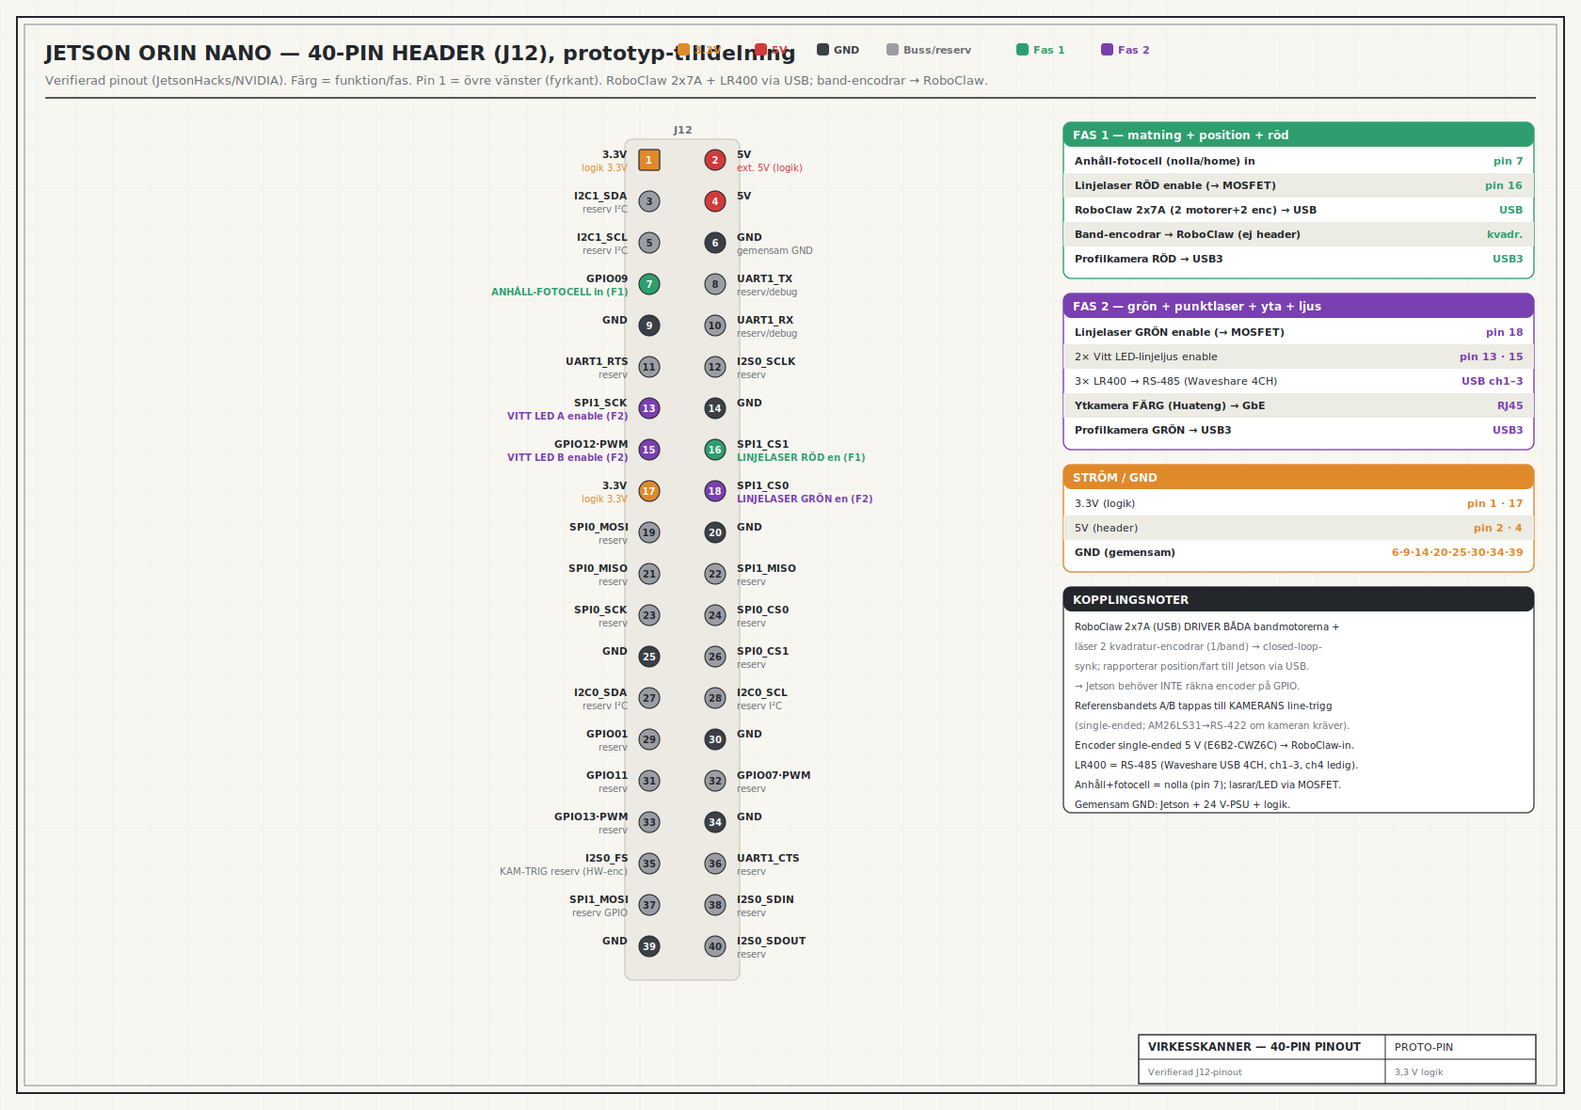
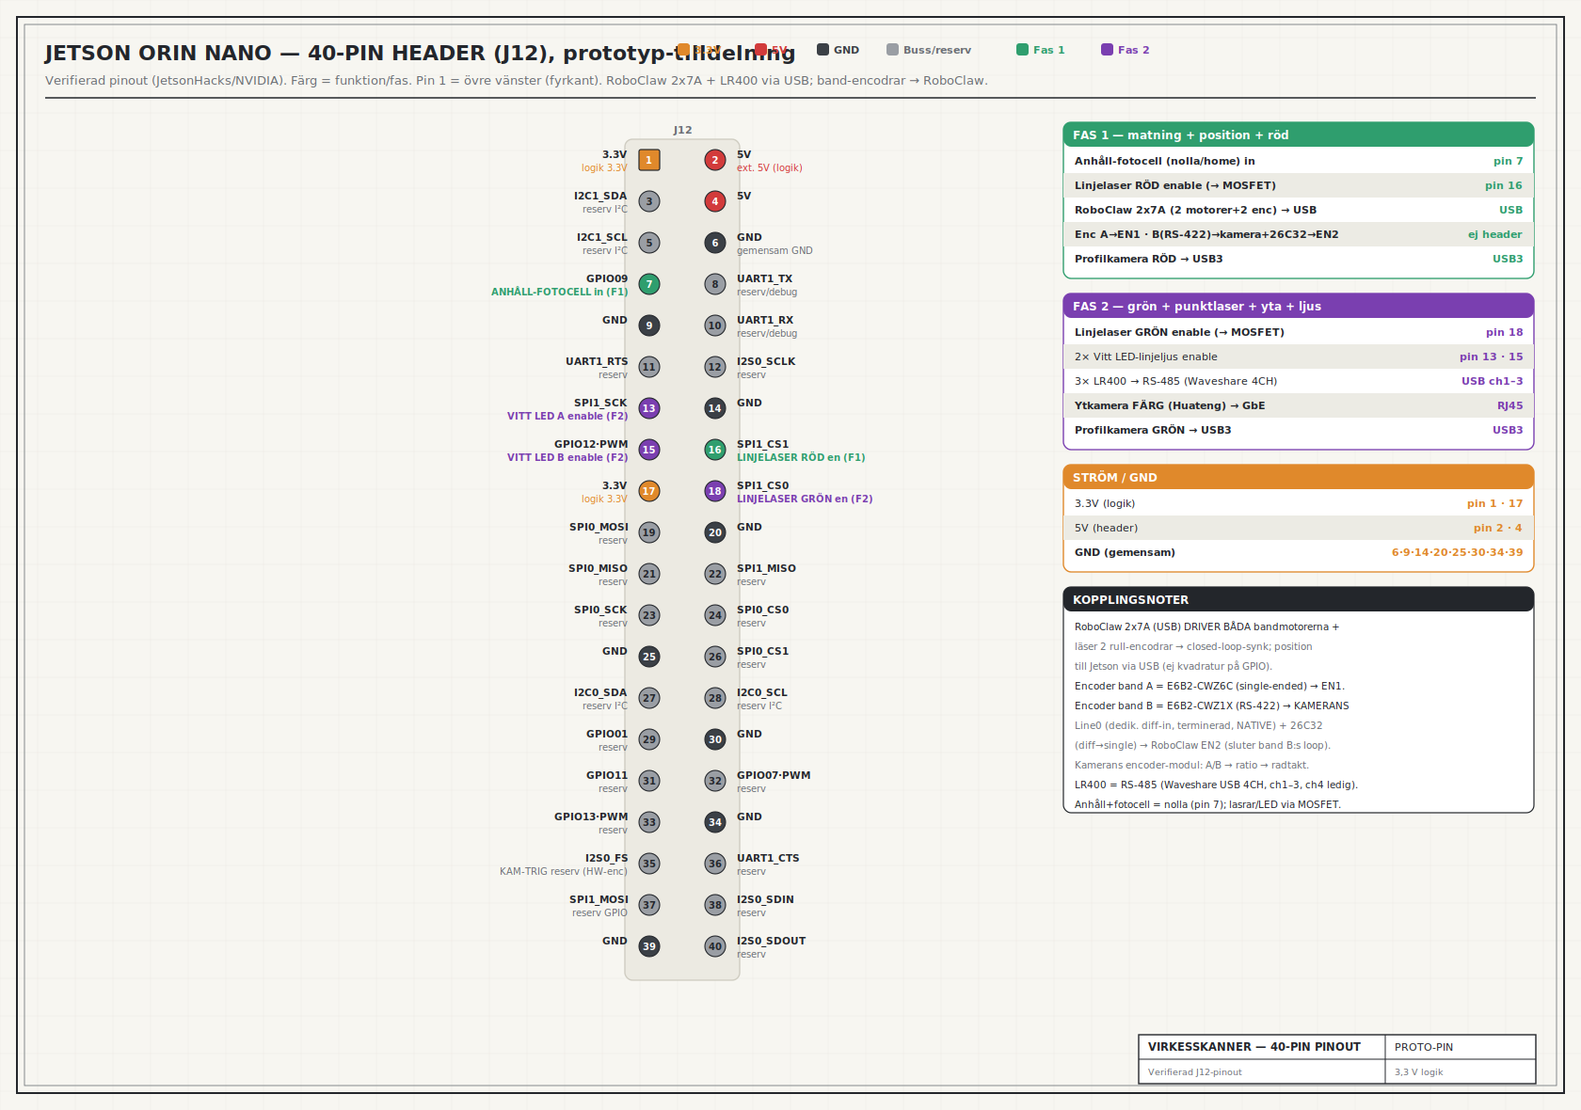
Bekräfta kamerans encoderstöd (RS-422) → split-design med båda looparna stängda
Kollade upp ytkamerans encoderingång (Huateng = rebrand av GigE-line-scan-
firmwaren Hikrobot/Visiondatum/Contrastech): Line0 är dedikerad differentiell
RS-422-encoderingång med inkopplingsbar terminering = bäst; inbyggd Encoder
Module tar A/B → ratio → radtakt. Bekräftar användarens idé.

Slutlig encoder-design (native i båda ändar, ingen omvandlare i kamerans väg):
- Band A: E6B2-CWZ6C (single-ended 5 V) → RoboClaw EN1 (direkt).
- Band B: E6B2-CWZ1X (RS-422) → kamerans Line0 (native diff, terminerad)
  + 26C32 (diff→single) → RoboClaw EN2 → sluter band B:s closed-loop.
- Båda kanalerna closed-loop @ samma börvärde → synk; position → Jetson via USB.

BOM (CWZ6C + CWZ1X + 26C32 i st.f. 2× CWZ6C + AM26LS31), wiring, pinout,
rig-3d och verify_jetson_io uppdaterade. Fas 1 oförändrad (18 130 kr).

Changed region(s): [[0.681, 0.5797, 0.8667, 0.7322], [0.681, 0.1831, 0.8357, 0.2136], [0.9286, 0.1831, 0.9595, 0.2136]]

diff --git a/tools/draw_rig3d.py b/tools/draw_rig3d.py
@@ -99,7 +99,7 @@ txt(fp[0]+10, fp[1]+2, "PC", 8, "middle", "#c98a16", 700); txt(fp[0]+28, fp[1]-2
 # RULL-ENCODRAR mot bandens retursida (en per band) → RoboClaw (synk) + ref → kamera
 ep = P(BENCH_L - 40, FY0 - 18, 14)
 dot(ep, 9, "#bfe6c8", GRN, 1.4); dot(ep, 2.5, GRN)
-txt(ep[0]+14, ep[1]+2, "2× rull-encoder (1/band) → RoboClaw synk + ref → kamera", 8.5, "start", GRN, 700)
+txt(ep[0]+14, ep[1]+2, "encoder A→RoboClaw EN1 · B (RS-422)→kamera Line0 + 26C32→EN2", 8.5, "start", GRN, 700)
 for lx in (LEGX0, LEGX1):
     box(lx - 18, lx + 18, CY - 18, CY + 18, -16, 6, "#bfc3c8", "#a7acb1", "#b0b5ba", "#969ba0", 1)
     box(lx - 14, lx + 14, CY - 14, CY + 14, 0, TOPZ, ALU, "#aeb3b8", "#b8bdc2", "#9aa0a6", 1)
@@ -137,7 +137,7 @@ txt(jp[0] + 75, jp[1] - 6, "JETSON Orin Nano", 10, "middle", JET, 700, SANS); tx
 panel(1210, 116, 410, 372, "SENSORER / FAS", INK)
 leg = [(RED, "Linjelaser+kamera RÖD 650", 1), (GRN, "Linjelaser+kamera GRÖN 520", 1),
        (PURP, "3× punktlaser LR400 (RS-485)", 2), (SURFC, "Ytkamera 4K färg + vitt ljus", 2),
-       (BELT, "2 transportband + RoboClaw 2x7A (USB)", 1), (ALU, "Stativ · anhåll+fotocell · 2 rull-encodrar (synk)", 1)]
+       (BELT, "2 transportband + RoboClaw 2x7A (USB)", 1), (ALU, "Stativ · anhåll+fotocell · enc A→EN1 · B(RS-422)→kamera", 1)]
 for i, (c, k, fas) in enumerate(leg):
     ry = 160 + i * 40; rect(1224, ry, 20, 20, c, INK, 0.8, 4)
     txt(1252, ry + 14, k, 11, "start", INK, 700, SANS)
@@ -160,7 +160,7 @@ for i, (k, v) in enumerate(dims):
 panel(2070, 116, 370, 372, "STYRNING (Jetson)", JET)
 for i, n in enumerate(["Fast anhåll + fotocell = mekanisk NOLLA/home", "(bräda läggs an → encoder-nollan sätts).",
                        "RoboClaw 2x7A driver BÅDA banden + 2 enc:", "closed-loop hastighet → banden i SYNK.",
-                       "Position/fart → Jetson via RoboClaw-USB →", "fram → mät → BACK; ref-enc → kamera line-trigg.",
+                       "Position/fart → Jetson via RoboClaw-USB →", "fram → mät → BACK; band B (RS-422) → kamera Line0.",
                        "Ytkamera GigE → Jetson 1GbE direkt (ingen switch).", "Punktlaser LR400 → RS-485 (digitalt, ingen ADC)."]):
     txt(2082, 158 + i * 28, "• " + n if not n.startswith("(") and not n.startswith("+") and not n.startswith("(rull") else "  " + n,
         9.6, "start", INK if not (n.startswith("(") or n.startswith("+")) else MUTED, 400)
@@ -181,15 +181,15 @@ def conn(p1, p2, lab, c):
     arrow(p1, p2, c, 1.7); mx, my = (p1[0]+p2[0])/2, (p1[1]+p2[1])/2
     rect(mx - len(lab)*3.2 - 4, my - 8, len(lab)*6.4 + 8, 15, "#fff", c, 0.8, 3); txt(mx, my + 3, lab, 8, "middle", c, 700)
 left = [(880, "Profilkamera RÖD", "MV-CS050-10UM", F1, "USB3"), (960, "Linjelaser röd+grön", "iadiy 650/520, CW", F1, "24V+GPIO"),
-        (1040, "RoboClaw 2x7A", "2 bandmotorer, synk", F1, "USB (1 kort)"), (1120, "2× rull-encoder (band)", "kvadratur, 1/band", F1, "→ RoboClaw"),
+        (1040, "RoboClaw 2x7A", "2 bandmotorer, synk", F1, "USB (1 kort)"), (1120, "Encoder A/B (band)", "A:CWZ6C · B:CWZ1X", F1, "→ RoboClaw"),
         (1200, "Anhåll-fotocell", "nolla / home", F1, "GPIO")]
 for (ly, t, s, c, lab) in left:
     node(70, ly, 240, t, s, c)
-    if lab == "→ RoboClaw":              # encodrar → RoboClaw (synk); ref → kamera; position→Jetson via RoboClaw-USB
+    if lab == "→ RoboClaw":              # A single-ended→EN1; B RS-422→kamera Line0 + 26C32→EN2
         L(190, ly, 190, ly - 30, c, 1.7)                 # upp till RoboClaw-noden
-        txt(196, ly - 14, "kvadr.→RoboClaw", 8, "start", c, 700, SANS)
-        L(310, ly + 32, 360, ly + 32, c, 1.7, "4 3")
-        txt(366, ly + 30, "→ kamera (ref) line-trigg", 8, "start", c, 700, SANS)
+        txt(196, ly - 14, "A single-end→EN1", 8, "start", c, 700, SANS)
+        L(310, ly + 28, 360, ly + 28, c, 1.7, "4 3")
+        txt(366, ly + 26, "B RS-422 → kamera Line0 + 26C32→EN2", 8, "start", c, 700, SANS)
     else:
         conn((310, ly + 25), (JX, JY + JH/2 + (ly - JY - JH/2) * 0.2), lab, c)
 SCY = 980
@@ -206,8 +206,8 @@ panel(1540, 832, 900, 540, "JETSON I/O-BUDGET (räcker med marginal)", INK)
 io = [("USB-portar (×4)", "4 — RÖD+GRÖN kam + RS-485 4CH + RoboClaw 2x7A", "OK · ingen hubb", F1),
       ("Gigabit Ethernet", "1 — ytkamera (GigE 1GbE direkt)", "OK", F2),
       ("RS-485 (USB 4CH)", "3× LR400 (ch1–3) · ch4 LEDIG", "OK · reserv", F2),
-      ("RoboClaw 2x7A (USB)", "2 bandmotorer + 2 kvadratur-enc → synk + position", "via USB", F1),
-      ("Encoder → kamera (ref)", "referensbandets A/B → line-trigg (pixel-exakt)", "tap, ev. RS-422", F1),
+      ("RoboClaw 2x7A (USB)", "A:CWZ6C→EN1 · B:CWZ1X→26C32→EN2 → synk + position", "via USB", F1),
+      ("Encoder band B → kamera", "CWZ1X RS-422 → kamerans Line0 (dedik. diff, terminerad)", "native, pixel-exakt", F1),
       ("40-pin GPIO (~28)", "~5 — anhåll-fotocell, 2 laser-en, 2 LED-en", "OK · gott om", F1),
       ("Analog in (ADC)", "0 — behövs EJ (allt digitalt)", "✓ digitalt", JET),
       ("DC-in / 24 V / 5 V", "Jetson 7–25 V + separat 24/5 V", "OK", INK)]
@@ -243,7 +243,7 @@ for i in range(20):
         tx = cx - 21 if left_ else cx + 21; an = "end" if left_ else "start"
         txt(tx, cy - 1, dn, 9, an, INK, 700, MONO)
         if us: txt(tx, cy + 11, us, 8.5, an, col if col not in (BUSc, DIMC, GNDc) else MUTED, 700 if col in (F1, F2) else 400, SANS)
-txt(60, 2002, "Matning: RoboClaw 2x7A (1 USB) driver BÅDA bandmotorerna + läser 2 rull-encodrar (1/band, retur) → closed-loop hastighet → banden i synk; rapporterar position/fart till Jetson (back-beslut). Referensbandets encoder tappas till kamerans line-trigg (pixel-exakt). Anhåll+fotocell = nolla. LR400 → RS-485 (4CH, ch4 ledig). Gemensam GND.", 9.3, "start", MUTED, 400)
+txt(60, 2002, "Matning: RoboClaw 2x7A (1 USB) driver BÅDA bandmotorerna → closed-loop synk; position/fart → Jetson via USB. Encoder band A=E6B2-CWZ6C (single-ended)→EN1; band B=E6B2-CWZ1X (RS-422)→kamerans Line0 (dedik. diff-in, terminerad, native) + 26C32 (diff→single)→EN2 (sluter B:s loop). Anhåll+fotocell=nolla. LR400→RS-485 (ch4 ledig). Gemensam GND.", 9.3, "start", MUTED, 400)
 
 # ---- BOM ----
 panel(1060, 1388, 1380, 640, "4 · KOMPLETT BOM (priser SEK)", INK)

diff --git a/tools/draw_wiring.py b/tools/draw_wiring.py
@@ -50,7 +50,7 @@ for gy in range(0, H, 40): line(0, gy, W, gy, GRID, 0.5)
 add('</g>')
 rect(18, 18, W - 36, H - 36, "none", INK, 2); rect(26, 26, W - 52, H - 52, "none", MUTED, 0.8)
 txt(48, 64, "VIRKESSKANNER — FAS 1-LAYOUT + KOMPLETT KOPPLINGSSCHEMA", 23, "start", INK, 700, SANS)
-txt(48, 90, "Fas 1 = komplett röd-profilerare på 2 transportband (RoboClaw 2x7A synkar banden via 2 rull-encodrar, ref→kameratrigg, anhåll+fotocell=nolla). "
+txt(48, 90, "Fas 1 = röd-profilerare på 2 transportband (RoboClaw 2x7A synkar banden via 2 rull-encodrar; band B = RS-422 → kamerans Line0 native + 26C32→EN2; anhåll+fotocell=nolla). "
             "Fas 2 = grön modul + 3× LR400 (RS-485) + line-scan-färgyta + vitljus. Alla anslutningar + Jetson I/O-budget.", 13, "start", MUTED, 400, SANS)
 line(48, 104, W - 48, 104, INK, 1.5)
 # fas-legend
@@ -76,8 +76,8 @@ txt(ox + 134, oy - 76, "FAST ANHÅLL", 8, "end", MUTED, 700)
 rect(ox + 122, oy - 48, 11, 15, "#16212e", "#c98a16", 1.2)
 txt(ox + 116, oy - 56, "fotocell", 8, "end", "#c98a16", 700)
 txt(ox + 116, oy - 44, "(nolla)", 8, "end", "#c98a16", 700)
-# rull-encodrar mot bandens retursida (en per band, under) → RoboClaw
-circ(ox + 250, oy + 30, 9, "#bfe6c8", GRN, 1.4); txt(ox + 264, oy + 34, "2× rull-encoder (1/band) → RoboClaw + ref→kamera", 8, "start", GRN, 700)
+# rull-encodrar mot bandens retursida (A single-ended→RoboClaw; B RS-422→kamera+26C32→RoboClaw)
+circ(ox + 250, oy + 30, 9, "#bfe6c8", GRN, 1.4); txt(ox + 264, oy + 34, "encoder A (single-end)→EN1 · B (RS-422)→kamera Line0 + 26C32→EN2", 7.5, "start", GRN, 700)
 line(ox + 250, oy + 21, ox + 250, oy, GRN, 1, "2 3", 0.7)
 # RÖD-HUVUD (oblik 30°): laser+kamera
 hx, hy = ox + 120, oy - 230
@@ -120,19 +120,22 @@ left = [
     (wy + 70, "Profilkamera RÖD", "MV-CS050-10UM", F1, "USB3 (egen)"),
     (wy + 150, "Linjelaser RÖD 650", "MZLaser, CW", F1, "24 V + GPIO-en"),
     (wy + 230, "RoboClaw 2x7A", "2 bandmotorer, synk", F1, "USB (1 kort)"),
-    (wy + 310, "2× rull-encoder (band)", "kvadratur, 1/band", F1, "→ RoboClaw"),
-    (wy + 390, "Anhåll-fotocell", "nolla / home", F1, "GPIO"),
+    (wy + 305, "Encoder band A", "E6B2-CWZ6C (single-end)", F1, "→ EN1"),
+    (wy + 370, "Encoder band B (ref)", "E6B2-CWZ1X (RS-422)", F1, "→ kamera+EN2"),
+    (wy + 435, "Anhåll-fotocell", "nolla / home", F1, "GPIO"),
 ]
 for (ly, t, s, c, lab) in left:
-    node(wx + 20, ly, 230, 52, t, s, c)
-    if "encoder" in t.lower():               # encodrar → RoboClaw (closed-loop/synk); ref → kamera; position→Jetson via RoboClaw-USB
-        line(wx + 135, ly, wx + 135, ly - 28, c, 1.8)          # upp till RoboClaw-noden
-        txt(wx + 142, ly - 12, "kvadratur → RoboClaw (synk)", 8, "start", c, 700)
-        line(wx + 250, ly + 30, wx + 286, ly + 30, c, 1.8, "4 3")
-        txt(wx + 290, ly + 26, "→ kamera (ref) line-trigg", 8, "start", c, 700)
-        txt(wx + 290, ly + 38, "position → Jetson via RoboClaw-USB", 7.5, "start", MUTED, 400)
+    node(wx + 20, ly, 230, 46, t, s, c)
+    if t == "Encoder band A":                # single-ended → RoboClaw EN1 (closed-loop)
+        line(wx + 135, ly, wx + 135, ly - 30, c, 1.8)          # upp till RoboClaw-noden
+        txt(wx + 142, ly - 12, "single-ended → RoboClaw EN1", 7.5, "start", c, 700)
+    elif "band B" in t:                      # RS-422 → kamera Line0 (native) + 26C32 → RoboClaw EN2
+        line(wx + 250, ly + 12, wx + 286, ly + 12, c, 1.8, "4 3")
+        txt(wx + 290, ly + 9, "→ kamera Line0 (RS-422, terminerad)", 7.5, "start", c, 700)
+        line(wx + 250, ly + 33, wx + 286, ly + 33, MUTED, 1.6)
+        txt(wx + 290, ly + 30, "26C32 → RoboClaw EN2 (sluter loop)", 7.5, "start", MUTED, 700)
     else:
-        conn((wx + 250, ly + 26), (Lc[0], Lc[1] + (ly + 26 - JY - JH / 2) * 0.25), lab, c)
+        conn((wx + 250, ly + 23), (Lc[0], Lc[1] + (ly + 23 - JY - JH / 2) * 0.25), lab, c)
 # höger: grön + punktlaser + yta + ljus
 right = [
     (wy + 70, "Profilkamera GRÖN", "MV-CS050-10UM", F2, "USB3 (egen)"),
@@ -163,8 +166,8 @@ rows = [
     ("USB 3.2 Gen2 (Type-A)", "4 st", "4 — RÖD+GRÖN kam + RS-485 4CH + RoboClaw 2x7A", "OK · ingen hubb", F1),
     ("USB → RS-485 4CH", "Waveshare 4CH", "3× LR400 Modbus (ch1–3) · ch4 LEDIG", "OK · reserv kvar", F2),
     ("Gigabit Ethernet (RJ45)", "1 st", "1 — ytkamera FÄRG (Huateng line-scan)", "OK", F2),
-    ("Motor + position", "RoboClaw 2x7A", "2 bandmotorer + 2 kvadratur-encodrar → synk", "position via USB", F1),
-    ("Encoder → kamera (ref)", "tap från 1 band", "referensbandets A/B → line-trigg (ev. RS-422)", "pixel-exakt scan", F1),
+    ("Motor + position", "RoboClaw 2x7A", "A:CWZ6C→EN1 · B:CWZ1X→26C32→EN2 → synk", "position via USB", F1),
+    ("Encoder → kamera (ref)", "band B RS-422", "CWZ1X → kamera Line0 (diff, terminerad, native)", "pixel-exakt scan", F1),
     ("40-pin GPIO (3,3 V)", "~28", "~5 — fotocell, 2× laser-en, 2× LED-en", "OK · gott om kvar", F1),
     ("Analog in (ADC)", "0 — saknas", "0 — behövs ej (allt digitalt)", "ingen ADC krävs", F1),
     ("DC-in (barrel)", "1", "Jetson 7–25 V; separat 24 V (band/laser/LED) + 5 V logik", "OK", INK),

diff --git a/tools/verify_jetson_io.py b/tools/verify_jetson_io.py
@@ -43,8 +43,9 @@ rows = [
  ("Matning RoboClaw 2x7A",  "USB #4 (1 kort)", "2 motorer + 2 enc",  True),
  ("3× LR400 punktlaser",   "RS-485 ch1–3 (Waveshare 4CH USB)","<0,1 MB/s", True),
  ("RS-485 ch4 (Waveshare)","LEDIG — Modbus-reserv","—",            True),
- ("2× rull-encoder (band)","→ RoboClaw (kvadratur)","synk + position", True),
- ("  – ref-band → kamera",  "tap → line-trigg (ev. RS-422)","per rad", True),
+ ("Encoder band A",        "E6B2-CWZ6C → RoboClaw EN1","single-ended", True),
+ ("Encoder band B (ref)",  "E6B2-CWZ1X → kamera Line0","RS-422 diff",  True),
+ ("  – band B → RoboClaw",  "26C32 (diff→single) → EN2","sluter loop", True),
  ("  – position → Jetson",  "via RoboClaw-USB","counts/fart",       True),
  ("Röd/Grön laser enable", "GPIO (MOSFET)",   "—",                 True),
  ("Anhåll-fotocell (nolla)","GPIO (digital)", "home/nolla",        True),
@@ -88,14 +89,17 @@ print()
 print("  SYNK: två kanaler vid SAMMA hastighets-börvärde → integraldelen nollar drift → banden")
 print("  går i synk; brädan brygger dessutom banden mekaniskt (master/följare om hårdare krävs).")
 print()
-print("  ENCODRAR: en rull-encoder per band (Ø40 mm mot retursidan, under, utanför FOV).")
-print("   • → RoboClaw : closed-loop/synk; RoboClaw rapporterar counts/fart till Jetson via USB")
-print("                  → Jetson vet position (från anhålls-nollan) → beslutar stopp/BACK.")
-print("   • ref-band   → tappas till KAMERANS line-trigg (hårdvarupuls, pixel-exakt scan).")
-print("   El-typ: RoboClaw-ingång = single-ended 5 V → E6B2-CWZ6C (NPN/push-pull). Kräver kameran")
-print("           RS-422 → lägg AM26LS31 (single-ended→diff) på referensbandets A/B mot kameran.")
+print("  ENCODRAR: en rull-encoder per band (Ø40 mm mot retursidan, under, utanför FOV), SAMMA PPR.")
+print("   Varje konsument får sin NATIVA signaltyp (ingen omvandlare i den känsliga vägen):")
+print("   • Band A: E6B2-CWZ6C (single-ended 5 V) → RoboClaw EN1 (single-ended-ingång) — direkt.")
+print("   • Band B: E6B2-CWZ1X (RS-422 diff) → KAMERANS Line0 (dedik. diff-in, terminerad, native)")
+print("            + 26C32 (diff→single) → RoboClaw EN2 → sluter band B:s closed-loop.")
+print("   Kamerans Encoder Module tar A/B, internt → ratio (N rader/puls) → radtakt, kvadr. pixlar.")
+print("   RoboClaw kör båda kanalerna closed-loop @ samma börvärde → banden i synk; rapporterar")
+print("   position/fart till Jetson via USB → back/stopp-beslut. Jetson räknar INGET på GPIO.")
 print(f"   Takt: Ø40 mm-hjul, 2500 ppr, {rig.feed_mps*1000:.0f} mm/s → ~4 kHz, ~12,6 µm/puls.")
-print("  → Jetson behöver INTE räkna kvadratur på GPIO (position kommer via RoboClaw-USB).")
+print("   [Kamerastöd bekräftat ur GigE-line-scan-firmwaren (Hikrobot/Visiondatum/Contrastech, som")
+print("    Huateng rebrandar): Line0 = differentiell RS-422-encoderingång m. terminering = bäst.]")
 print("  Kan encodern ligga på Waveshares ch4? NEJ — kvadraturpulser ≠ serie-bytes → ch4 LEDIG.")
 
 # ---- compute + ström ----
@@ -163,8 +167,8 @@ print("  OBS: USB3 → höj usbcore.usbfs_memory_mb;  GigE → samma subnät + j
 print(); line("="); print("SLUTSATS: hela kedjan ryms på EN Orin Nano.")
 print("  • 2 profilkameror + Waveshare (4CH RS-485) + RoboClaw 2x7A = 4 USB-portar, ALLA DIREKT (ingen hubb).")
 print("  • Ytkamera på GbE; 3 LR400 på RS-485 ch1–3 → ch4 LEDIG (Modbus-reserv).")
-print("  • RoboClaw 2x7A driver BÅDA banden + 2 rull-encodrar → synk; position → Jetson via USB.")
-print("    Ref-bandets encoder → kamerans line-trigg; anhåll-fotocell + lasrar/LED → GPIO (~21 kvar).")
+print("  • RoboClaw 2x7A driver BÅDA banden → synk; position → Jetson via USB. Encoder A (CWZ6C,")
+print("    single-end)→EN1; B (CWZ1X, RS-422)→kamerans Line0 (native) + 26C32→EN2. GPIO ~21 kvar.")
 print("  • Ingen ADC behövs (LR400 = RS-485 digitalt).")
 print("  Enda att hålla koll på: ytkameran @ MAX 8 kHz färg = {:.0f} % av GbE (proto-takt = {:.0f} %).".format(
       100*ycam_max/JET['gbe_MBs'], 100*ycam/JET['gbe_MBs'])); line("=")

diff --git a/prototype/proto_sim.py b/prototype/proto_sim.py
@@ -391,9 +391,10 @@ BOM = [
     ("Linjelaser grön", "MZLaser PWAJHFX520 — 520 nm Powell (beställ 45°/100 mW)", 1, "jämn linje (Powell); 520 nm i gröna filtret (505–545); OBS 12/24 V (ej 5 V)", "24 V + GPIO-en (MOSFET)", "CW", 350, 1, "AliExpress/MZLaser · ditt val"),
     ("Rullband ×2", "rostfri 600 mm, 24 V/30 rpm, 50 mm/s ('with Power Supply')", 2, "matning (cross-feed); 50 mm/s = 40 brädor/min. TÄNKT 60/min kräver ~75 mm/s (~45 rpm) → snabbare motor", "24 V DC", "50 mm/s (→40/min)", 736, 1, "AliExpress · ditt val"),
     ("Motorstyrning RoboClaw 2x7A", "BasicMicro RoboClaw 2x7A (V6) — 2 kanaler, 7,5 A/15 A peak, dubbla kvadratur-encodrar", 1, "DRIVER BÅDA bandmotorerna; closed-loop hastighets-/positions-PID per kanal → synk; rapporterar position/fart till Jetson", "USB (el. UART)", "kvadratur-PID", 1099, 1, "Electrokit · ditt val"),
-    ("Rull-encoder ×2 (kvadratur)", "E6B2-CWZ6C (NPN/push-pull, single-ended 5 V) — Ø40 mm-hjul mot bandets retur", 2, "EN per band (under, utanför FOV) → RoboClaw closed-loop/synk; referensbandets A/B tappas även → kamera line-trigg + Jetson via RoboClaw-USB; anslag-noll", "→ RoboClaw + kamera", "12,6 µm/puls", 250, 1, "Omron · att köpa"),
+    ("Rull-encoder band A", "E6B2-CWZ6C (NPN/push-pull, single-ended 5 V) — Ø40 mm-hjul mot bandets retur", 1, "band A (under, utanför FOV) → RoboClaw EN1 closed-loop", "→ RoboClaw EN1", "12,6 µm/puls", 250, 1, "Omron · att köpa"),
+    ("Rull-encoder band B (ref)", "E6B2-CWZ1X (RS-422 line-driver) — Ø40 mm-hjul, samma PPR som A", 1, "band B → KAMERANS Line0 (RS-422 diff, terminerad, native) + 26C32 → RoboClaw EN2; referens för line-trigg", "→ kamera Line0 + EN2", "12,6 µm/puls", 250, 1, "Omron · att köpa"),
+    ("RS-422-mottagare 26C32", "AM26LS32/26C32 (diff→single-ended) för band B → RoboClaw EN2", 1, "sluter band B:s closed-loop på RoboClaw (kameran tar RS-422 direkt)", "—", "—", 60, 1, "att köpa"),
     ("Anhåll-fotocell", "E3F-DS30C4 fotocell (NPN, diffus)", 1, "bakkant mot fast anhåll → mekanisk nolla/home + ev. om-nollning", "GPIO", "kant-trig", 80, 1, "att köpa"),
-    ("Line-driver (vid behov)", "AM26LS31 single-ended→RS-422 (om kameran kräver diff. encoder-in)", 1, "referensbandets A/B → kamerans RS-422 line-trigg", "—", "—", 60, 1, "att köpa (ev.)"),
     ("Ramstativ (alu)", "2020 T-spår-profil + vinkelfästen (~4 m)", 1, "vänt stativ + tvärbalk över rullbandet", "—", "—", 600, 1, "att köpa (alu)"),
     ("Anslag / mathåll", "alu-vinkel (bakkant, laddläge)", 1, "lägg brädan mot → känd nollposition", "—", "—", 150, 1, "DIY (alu)"),
     ("Sidoanslag / styrskena", "alu-profil längs ENA sidan", 1, "brädans ena kant rider mot → anti-skev", "—", "—", 150, 1, "DIY (alu)"),
@@ -453,7 +454,7 @@ def interface_rows(sim):
         {"Enhet": "Motorstyrning (fram/back)", "Buss": "USB → RoboClaw 2x7A", "Takt (proto)": "—",
          "Datatakt": "—", "Buss-tak": "1 kort, 2 kanaler", "Marginal": "Jetson: load→fram→mät→back→upprepa; banden synkade"},
         {"Enhet": "Läge (rull-encoder ×2)", "Buss": "kvadratur→RoboClaw", "Takt (proto)": "pulser",
-         "Datatakt": "—", "Buss-tak": "—", "Marginal": "1/band → closed-loop/synk; ref → kamera line-trigg; position via RoboClaw-USB"},
+         "Datatakt": "—", "Buss-tak": "—", "Marginal": "A: CWZ6C→EN1; B: CWZ1X→kamera Line0 (RS-422) + 26C32→EN2; synk; position via USB"},
     ]
 
 

diff --git a/tools/draw_pinout.py b/tools/draw_pinout.py
@@ -3,8 +3,8 @@
 Verifierad pinout (JetsonHacks/NVIDIA). Färgkodad per funktion/fas + sammanfattning
 och kopplingsnoter. Aktuellt schema: LR400 på RS-485 (Waveshare 4CH USB), matning via
 RoboClaw 2x7A (USB) som driver båda banden + läser 2 rull-encodrar (synk) och rapporterar
-position till Jetson; referensbandets encoder → kamerans line-trigg; anhåll+fotocell = nolla
-(GPIO), linjelaser/vitljus-enable via MOSFET. Headern används glest — det mesta går via USB.
+position till Jetson; band A=CWZ6C(single-ended)→EN1, band B=CWZ1X(RS-422)→kamerans Line0
+(native diff) + 26C32→EN2; anhåll+fotocell = nolla (GPIO), linjelaser/vitljus-enable via MOSFET.
 
     python tools/draw_pinout.py   # -> prototype-pinout.svg i projektroten
 """
@@ -106,7 +106,7 @@ y = block(y, "FAS 1 — matning + position + röd", F1, [
     ("Anhåll-fotocell (nolla/home) in", "pin 7"),
     ("Linjelaser RÖD enable (→ MOSFET)", "pin 16"),
     ("RoboClaw 2x7A (2 motorer+2 enc) → USB", "USB"),
-    ("Band-encodrar → RoboClaw (ej header)", "kvadr."),
+    ("Enc A→EN1 · B(RS-422)→kamera+26C32→EN2", "ej header"),
     ("Profilkamera RÖD → USB3", "USB3"),
 ])
 y = block(y, "FAS 2 — grön + punktlaser + yta + ljus", F2, [
@@ -126,15 +126,15 @@ rect(sx, y, 500, 240, "#fff", INK, 1.2, 8)
 rect(sx, y, 500, 26, INK, INK, 0, 8); txt(sx + 10, y + 18, "KOPPLINGSNOTER", 12, "start", "#fff", 700, SANS)
 notes = [
     "RoboClaw 2x7A (USB) DRIVER BÅDA bandmotorerna +",
-    "  läser 2 kvadratur-encodrar (1/band) → closed-loop-",
-    "  synk; rapporterar position/fart till Jetson via USB.",
-    "  → Jetson behöver INTE räkna encoder på GPIO.",
-    "Referensbandets A/B tappas till KAMERANS line-trigg",
-    "  (single-ended; AM26LS31→RS-422 om kameran kräver).",
-    "Encoder single-ended 5 V (E6B2-CWZ6C) → RoboClaw-in.",
+    "  läser 2 rull-encodrar → closed-loop-synk; position",
+    "  till Jetson via USB (ej kvadratur på GPIO).",
+    "Encoder band A = E6B2-CWZ6C (single-ended) → EN1.",
+    "Encoder band B = E6B2-CWZ1X (RS-422) → KAMERANS",
+    "  Line0 (dedik. diff-in, terminerad, NATIVE) + 26C32",
+    "  (diff→single) → RoboClaw EN2 (sluter band B:s loop).",
+    "  Kamerans encoder-modul: A/B → ratio → radtakt.",
     "LR400 = RS-485 (Waveshare USB 4CH, ch1–3, ch4 ledig).",
     "Anhåll+fotocell = nolla (pin 7); lasrar/LED via MOSFET.",
-    "Gemensam GND: Jetson + 24 V-PSU + logik.",
 ]
 for k, n in enumerate(notes):
     txt(sx + 12, y + 46 + k * 21, n, 10.3, "start", INK if not n.startswith("  ") else MUTED, 400, SANS)
